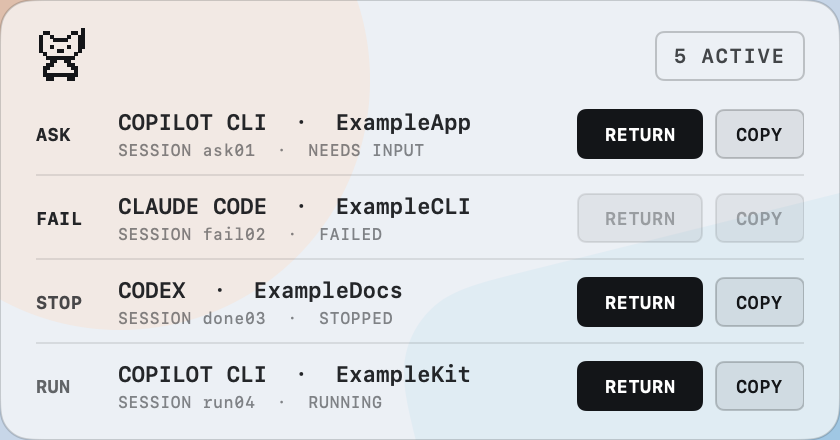
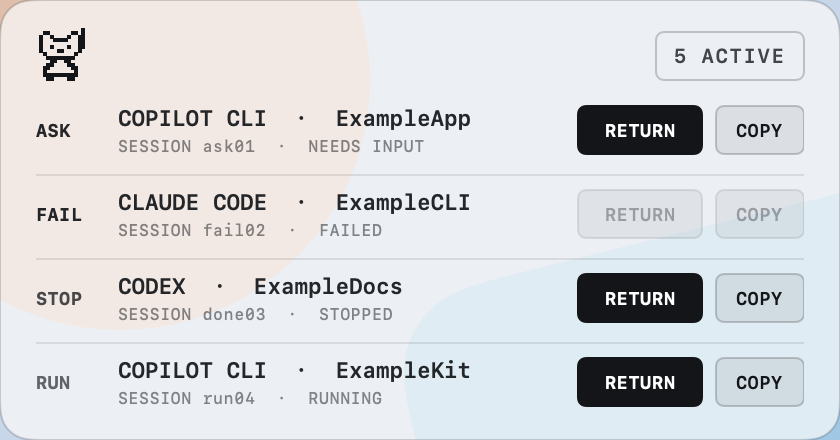
feat: polish active session swipe hide

diff --git a/internal/app/macos/SessionListPresentationModel.swift b/internal/app/macos/SessionListPresentationModel.swift
@@ -2,12 +2,20 @@ import AppKit
 import Foundation
 import SwiftUI
 
+enum SessionRowLayout {
+    static let rowHeight: CGFloat = 42
+    static let actionButtonWidth: CGFloat = 44
+    static let actionButtonHeight: CGFloat = 24
+    static let actionButtonCornerRadius: CGFloat = 4
+    static let contentBottomInset: CGFloat = 4
+}
+
 struct SessionSwipeRowVisual: Equatable {
     static let resting = SessionSwipeRowVisual(
         phase: .resting,
         offset: 0,
         opacity: 1,
-        height: 42,
+        height: SessionRowLayout.rowHeight,
         isPending: false
     )
 
@@ -22,15 +30,11 @@ struct SessionSwipeRowVisual: Equatable {
     }
 
     var actionOpacity: Double {
-        return min(1, revealWidth / SessionSwipeMetrics.standard.actionWidth)
+        return min(1, revealWidth / SessionRowLayout.actionButtonWidth)
     }
 
     var actionLabelOpacity: Double {
         return isPending ? 0.7 : 1
-    }
-
-    var actionScale: CGFloat {
-        return phase == .commitReady ? 1.06 : 1
     }
 
     var actionAcceptsInput: Bool {
@@ -42,20 +46,66 @@ struct SessionSwipeRowVisual: Equatable {
     }
 
     func actionWidth(rowWidth: CGFloat) -> CGFloat {
-        return usesFullWidthAction
-            ? rowWidth
-            : min(rowWidth, revealWidth)
+        let standardWidth = min(rowWidth, SessionRowLayout.actionButtonWidth)
+        let initialWidth = min(standardWidth, revealWidth)
+        let progress = actionExpansionProgress(rowWidth: rowWidth)
+        return initialWidth + ((rowWidth - initialWidth) * progress)
     }
 
-    var usesFullWidthAction: Bool {
-        switch phase {
-        case .commitReady:
-            return true
-        case .committing, .removing:
-            return revealWidth > SessionSwipeMetrics.standard.actionWidth
-        case .resting, .dragging, .revealed, .failed:
-            return false
+    func actionHeight(rowWidth: CGFloat) -> CGFloat {
+        let progress = actionExpansionProgress(rowWidth: rowWidth)
+        return SessionRowLayout.actionButtonHeight +
+            ((SessionRowLayout.rowHeight - SessionRowLayout.actionButtonHeight) * progress)
+    }
+
+    func actionCornerRadius(rowWidth: CGFloat) -> CGFloat {
+        let width = actionWidth(rowWidth: rowWidth)
+        let expansionProgress = actionExpansionProgress(rowWidth: rowWidth)
+        if expansionProgress > 0 {
+            return SessionRowLayout.actionButtonCornerRadius * (1 - expansionProgress)
         }
+        if width <= SessionRowLayout.actionButtonHeight {
+            return width / 2
+        }
+        let cornerProgress = min(
+            1,
+            (width - SessionRowLayout.actionButtonHeight) /
+                (SessionRowLayout.actionButtonWidth - SessionRowLayout.actionButtonHeight)
+        )
+        return (SessionRowLayout.actionButtonHeight / 2) +
+            ((SessionRowLayout.actionButtonCornerRadius -
+                (SessionRowLayout.actionButtonHeight / 2)) * cornerProgress)
+    }
+
+    func actionLabelScale(rowWidth: CGFloat) -> CGFloat {
+        return 1 + (0.06 * actionExpansionProgress(rowWidth: rowWidth))
+    }
+
+    func actionVerticalOffset(rowWidth: CGFloat) -> CGFloat {
+        return -(SessionRowLayout.contentBottomInset / 2) *
+            (1 - actionExpansionProgress(rowWidth: rowWidth))
+    }
+
+    func usesExpandedAction(rowWidth: CGFloat) -> Bool {
+        return actionExpansionProgress(rowWidth: rowWidth) > 0
+    }
+
+    func usesFullWidthAction(rowWidth: CGFloat) -> Bool {
+        return actionExpansionProgress(rowWidth: rowWidth) >= 1
+    }
+
+    func actionExpansionProgress(rowWidth: CGFloat) -> CGFloat {
+        let expansionStart = SessionSwipeMetrics.standard.actionWidth
+        let expansionEnd = SessionSwipeMetrics.standard.commitThreshold(rowWidth: rowWidth)
+        guard expansionEnd > expansionStart else {
+            return phase == .commitReady || phase == .committing || phase == .removing
+                ? 1
+                : 0
+        }
+        return min(
+            1,
+            max(0, (revealWidth - expansionStart) / (expansionEnd - expansionStart))
+        )
     }
 }
 

diff --git a/internal/app/macos/NotchSessionContentView.swift b/internal/app/macos/NotchSessionContentView.swift
@@ -37,13 +37,13 @@ struct NotchSessionContentView: View {
         let removalToken = sessionListModel.removalToken(for: row.id)
         return ZStack(alignment: .trailing) {
             hideActionLayer(row, visual: visual, rowWidth: rowWidth)
-                .zIndex(visual.usesFullWidthAction ? 2 : 0)
+                .zIndex(visual.usesExpandedAction(rowWidth: rowWidth) ? 2 : 0)
             sessionRow(row, visual: visual, rowWidth: rowWidth)
                 .offset(x: visual.offset)
                 .zIndex(1)
         }
         .opacity(visual.opacity)
-        .frame(width: rowWidth, height: 42)
+        .frame(width: rowWidth, height: SessionRowLayout.rowHeight)
         .clipped()
         .modifier(
             SessionRemovalAnimationObserver(
@@ -105,6 +105,8 @@ struct NotchSessionContentView: View {
                 }
             }
         )
+        .padding(.bottom, SessionRowLayout.contentBottomInset)
+        .frame(height: SessionRowLayout.rowHeight)
         .overlay(rule, alignment: .bottom)
         .accessibilityElement(children: .contain)
         .accessibilityLabel(row.accessibilityLabel)
@@ -192,6 +194,8 @@ struct NotchSessionContentView: View {
         rowWidth: CGFloat
     ) -> some View {
         let width = visual.actionWidth(rowWidth: rowWidth)
+        let height = visual.actionHeight(rowWidth: rowWidth)
+        let cornerRadius = visual.actionCornerRadius(rowWidth: rowWidth)
         return HStack(spacing: 0) {
             Spacer(minLength: 0)
             Button {
@@ -202,11 +206,20 @@ struct NotchSessionContentView: View {
                     .tracking(0.5)
                     .foregroundStyle(Color.white)
                     .opacity(visual.actionLabelOpacity)
-                    .scaleEffect(visual.actionScale)
+                    .scaleEffect(visual.actionLabelScale(rowWidth: rowWidth))
+                    .frame(width: width, height: height)
+                    .background(
+                        RoundedRectangle(cornerRadius: cornerRadius)
+                            .fill(SessionSwipeStyle.danger)
+                    )
+                    .clipped()
+                    .offset(y: visual.actionVerticalOffset(rowWidth: rowWidth))
             }
-            .buttonStyle(.plain)
-            .frame(width: width, height: 42)
-            .background(Color(nsColor: .systemRed))
+            .buttonStyle(
+                SessionHideActionButtonStyle(
+                    transitionStyle: snapshot.transitionStyle
+                )
+            )
             .opacity(visual.actionOpacity)
             .allowsHitTesting(visual.actionAcceptsInput)
             .accessibilityHidden(true)
@@ -224,6 +237,33 @@ struct NotchSessionContentView: View {
         case .idle:
             return max(0.42, palette.statusFloor)
         }
+    }
+}
+
+private enum SessionSwipeStyle {
+    static let danger = Color(
+        red: 200.0 / 255.0,
+        green: 15.0 / 255.0,
+        blue: 40.0 / 255.0
+    )
+}
+
+private struct SessionHideActionButtonStyle: ButtonStyle {
+    let transitionStyle: NotchShellTransitionStyle
+
+    func makeBody(configuration: Configuration) -> some View {
+        configuration.label
+            .opacity(configuration.isPressed ? 0.82 : 1)
+            .scaleEffect(
+                configuration.isPressed && transitionStyle == .spatial
+                    ? 0.97
+                    : 1,
+                anchor: .trailing
+            )
+            .animation(
+                transitionStyle == .spatial ? .easeOut(duration: 0.08) : nil,
+                value: configuration.isPressed
+            )
     }
 }
 

diff --git a/internal/app/macos/tests/SessionSwipePresentationTests.swift b/internal/app/macos/tests/SessionSwipePresentationTests.swift
@@ -41,6 +41,13 @@ extension MewsAppModelTests {
     }
 
     private static func assertFullSwipePresentation() throws {
+        try assertFullWidthSwipe()
+        try assertCompactSwipe()
+        try assertExpandingSwipe()
+        try assertRemovingSwipe()
+    }
+
+    private static func assertFullWidthSwipe() throws {
         let fullSwipe = SessionSwipeRowVisual(
             phase: .commitReady,
             offset: -176,
@@ -48,24 +55,46 @@ extension MewsAppModelTests {
             height: 42,
             isPending: false
         )
-        let shortSwipe = SessionSwipeRowVisual(
-            phase: .revealed,
-            offset: -72,
-            opacity: 1,
-            height: 42,
-            isPending: false
-        )
         try swipePresentationExpect(
             fullSwipe.actionWidth(rowWidth: 320) == 320 &&
-                fullSwipe.usesFullWidthAction,
+                fullSwipe.actionHeight(rowWidth: 320) == 42 &&
+                fullSwipe.actionCornerRadius(rowWidth: 320) == 0 &&
+                fullSwipe.actionVerticalOffset(rowWidth: 320) == 0 &&
+                fullSwipe.usesFullWidthAction(rowWidth: 320),
             "commit-ready feedback should expand the red action across the row"
         )
+    }
+
+    private static func assertCompactSwipe() throws {
         try swipePresentationExpect(
-            shortSwipe.actionWidth(rowWidth: 320) == 72 &&
-                !shortSwipe.usesFullWidthAction &&
-                shortSwipe.acceptsSwipeInput,
-            "a short swipe should keep the action at its revealed width"
+            swipeVisual(phase: .dragging, offset: -16)
+                .actionCornerRadius(rowWidth: 320) == 8,
+            "the first visible part of HIDE should remain circular"
         )
+        let shortSwipe = swipeVisual(phase: .revealed, offset: -72)
+        try swipePresentationExpect(
+            shortSwipe.actionWidth(rowWidth: 320) == 44 &&
+                shortSwipe.actionHeight(rowWidth: 320) == 24 &&
+                shortSwipe.actionCornerRadius(rowWidth: 320) == 4 &&
+                shortSwipe.actionVerticalOffset(rowWidth: 320) == -2 &&
+                !shortSwipe.usesExpandedAction(rowWidth: 320) &&
+                shortSwipe.acceptsSwipeInput,
+            "a short swipe should reveal a COPY-sized HIDE button"
+        )
+    }
+
+    private static func assertExpandingSwipe() throws {
+        let visual = swipeVisual(phase: .dragging, offset: -124)
+        try swipePresentationExpect(
+            visual.actionWidth(rowWidth: 320) == 182 &&
+                visual.actionHeight(rowWidth: 320) == 33 &&
+                visual.actionCornerRadius(rowWidth: 320) == 2 &&
+                visual.actionLabelScale(rowWidth: 320) == 1.03,
+            "a long pull should continuously morph the button toward the full row"
+        )
+    }
+
+    private static func assertRemovingSwipe() throws {
         let removing = SessionSwipeRowVisual(
             phase: .removing,
             offset: -320,
@@ -76,6 +105,19 @@ extension MewsAppModelTests {
         try swipePresentationExpect(
             !removing.acceptsSwipeInput,
             "a leaving row should not retain an input target"
+        )
+    }
+
+    private static func swipeVisual(
+        phase: SessionSwipePhase,
+        offset: CGFloat
+    ) -> SessionSwipeRowVisual {
+        return SessionSwipeRowVisual(
+            phase: phase,
+            offset: offset,
+            opacity: 1,
+            height: 42,
+            isPending: false
         )
     }
 

diff --git a/internal/app/macos/SessionListPresentationAnimation.swift b/internal/app/macos/SessionListPresentationAnimation.swift
@@ -45,7 +45,7 @@ extension SessionListPresentationModel {
             phase: phase,
             offset: interaction.offset,
             opacity: 1,
-            height: 42,
+            height: SessionRowLayout.rowHeight,
             isPending: false
         )
     }

diff --git a/docs/product-design.md b/docs/product-design.md
@@ -128,7 +128,7 @@ Events stay deliberately small:
 
 - Active Session rows stay unchanged by default. Only an ordered `STOP` row accepts a mouse left-drag or a two-finger trackpad swipe to the left.
 - Movement remains attached to the pointer or fingers after an 8-point slop and a 1.25 horizontal direction lock. Native vertical scrolling wins when that lock is not met, and only one row can be dragged or revealed at a time.
-- Releasing before 36 points closes the row. Releasing from 36 points onward reveals one 72-point system-red `HIDE` action. Crossing 55% of the current row width expands the red action across the row, centers and enlarges its label, and hides directly only after release; a 16-point retreat hysteresis cancels that full-swipe state.
+- Releasing before 36 points closes the row. Releasing from 36 points onward keeps the 72-point gesture stop while revealing a 44×24 `HIDE` button matching `COPY`. Its first visible edge is circular, then settles to the standard row-button shape. Pulling past 72 points continuously expands the darker `#c80f28` action until it fills the row at the 55% commit threshold; hiding still occurs only after release, and a 16-point retreat hysteresis cancels that full-swipe state.
 - Both the revealed button and full swipe submit the same evidence-scoped local write. The row leaves only after persistence succeeds. A write failure returns it to the revealed position for retry, while an ordering-unknown row remains visible and unavailable.
 - Hiding removes only the matching evidence from Active Sessions. Local event history, notifications, and the upstream CLI session remain unchanged. Strictly newer primary evidence restores the session automatically.
 - Reduce Motion keeps direct tracking but replaces spring and spatial removal with a 100 ms ease-out fade. VoiceOver exposes `Hide from Active Sessions` as a row custom action, while the visual `HIDE` layer stays out of the accessibility tree.

diff --git a/docs/architecture.md b/docs/architecture.md
@@ -244,8 +244,18 @@ finalizes the normal path at the visual endpoint, with a bounded 380 ms
 watchdog only for interrupted callbacks; failures keep the row visible and
 retryable. Panel close, `orderOut`, placement loss, and app shutdown advance the
 interaction epoch and cancel pending visual callbacks. Drag updates change
-only row transform, clipping, and opacity; event scanning, JSON work, and atomic
-persistence remain on the session controller queue.
+only row transform and derived action geometry, clipping, and opacity; event
+scanning, JSON work, and atomic persistence remain on the session controller
+queue.
+
+The swipe visual derives from that same offset. The 72-point revealed gesture
+stop presents a 44×24 `HIDE` button matching the compact row actions. Before
+that width is visible, its clipped leading edge uses circular geometry. Beyond
+the revealed stop, one normalized progress value expands the darker
+`#c80f28` button's width and height, reduces its corner radius, and scales its
+label until the action fills the row at the existing commit threshold. The row
+content owns the full 42-point height, so its separator remains at the row
+boundary instead of the action-button baseline.
 
 `EventLogReader` opens the log, stats the same descriptor, reads only complete
 JSONL records, and revalidates the descriptor and pathname before publishing a

diff --git a/changelog.d/122.changed.md b/changelog.d/122.changed.md
@@ -1,0 +1,1 @@
+Active Sessions now morph the left-swipe HIDE control from a compact button into a calmer dark-red full-row action, with better vertical spacing for status and row controls.
